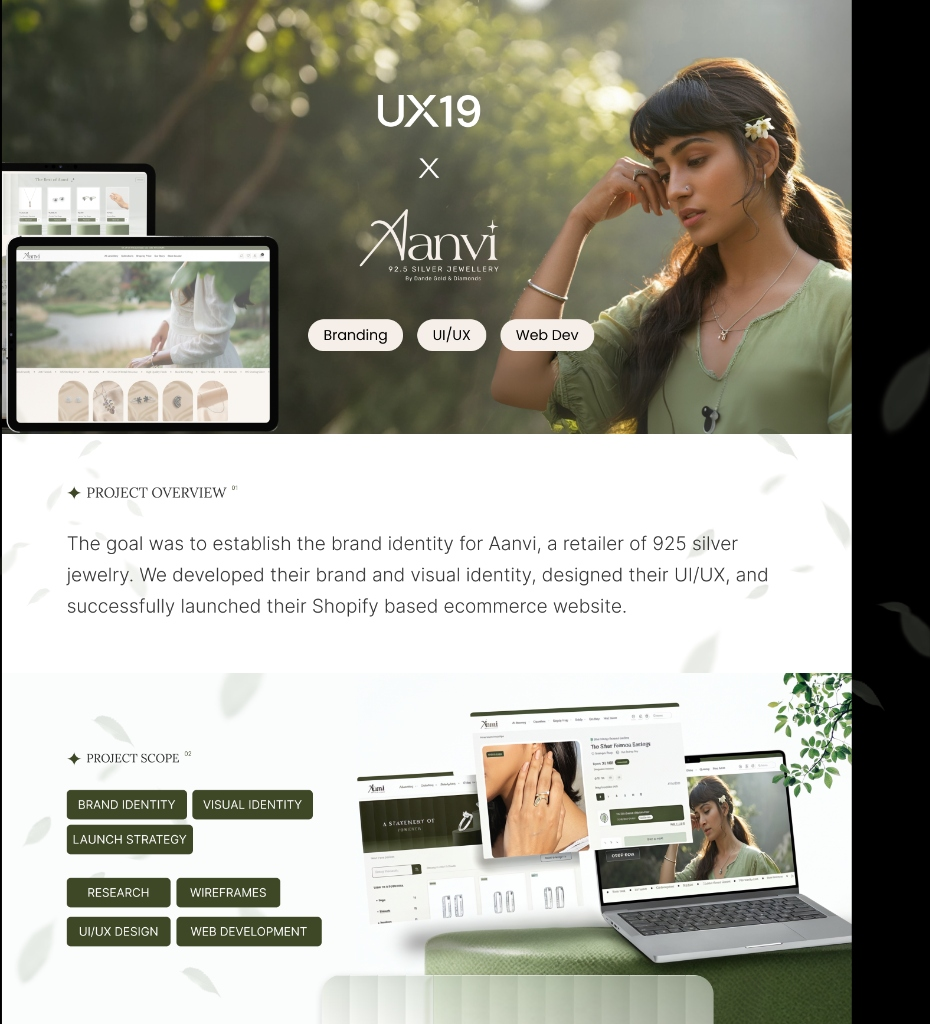
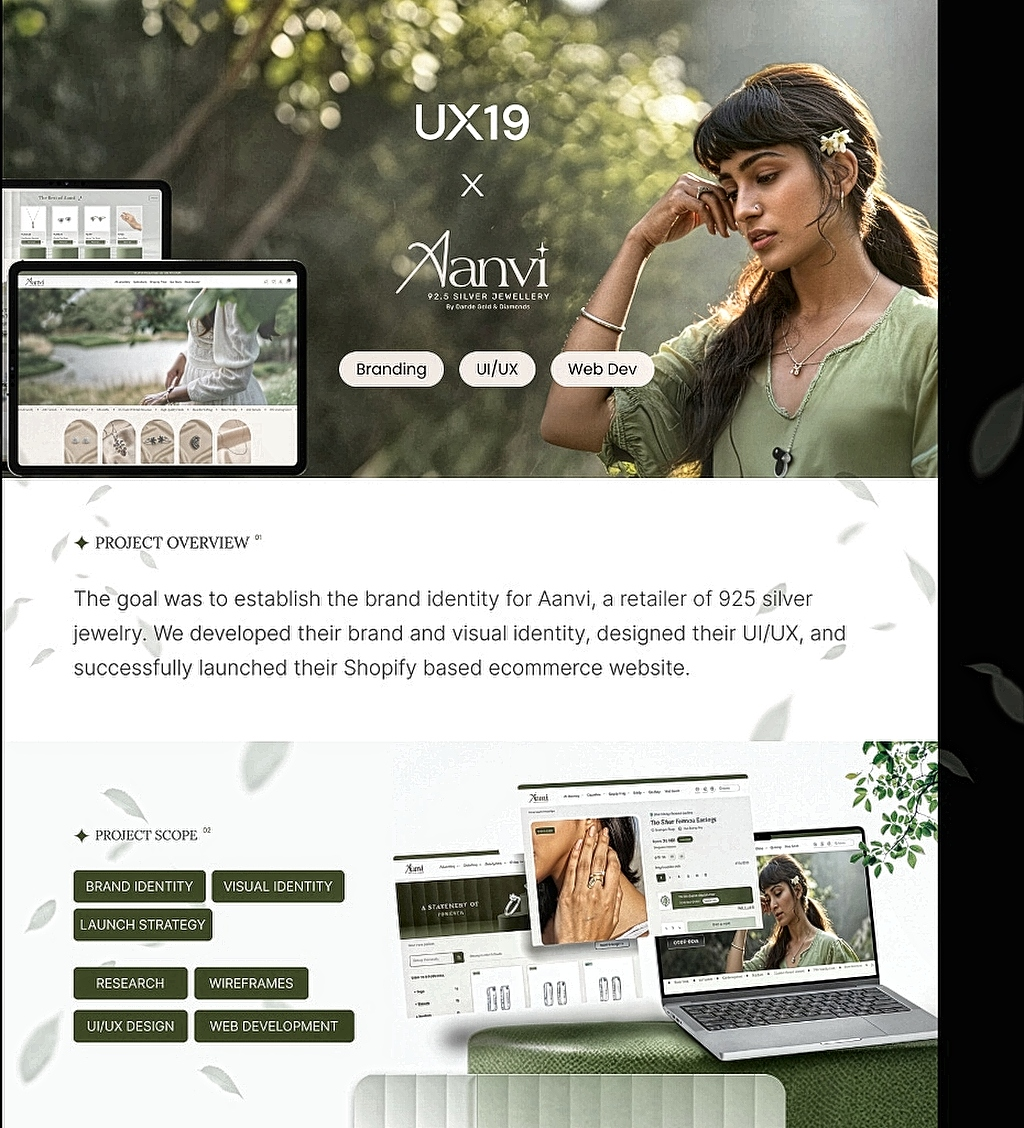
feat: standardize all 8 Aanvi boards to uniform 1024px full width with enhanced anti-blur edge clarity

diff --git a/aanvi.html b/aanvi.html
@@ -81,7 +81,7 @@
 
       <!-- Board 01 -->
       <article class="aanvi-stack-item" id="board-01">
-        <img src="assets/images/projects/aanvi/page-01-overview-and-scope.jpg" alt="Aanvi 925 Silver Jewellery — Board 01: Project Overview & Scope" width="930" height="1024" loading="eager" />
+        <img src="assets/images/projects/aanvi/page-01-overview-and-scope.jpg" alt="Aanvi 925 Silver Jewellery — Board 01: Project Overview & Scope" width="1024" height="1128" loading="eager" />
       </article>
 
       <!-- Board 02 -->
@@ -91,7 +91,7 @@
 
       <!-- Board 03 -->
       <article class="aanvi-stack-item" id="board-03">
-        <img src="assets/images/projects/aanvi/page-03-visual-identity-and-pillars.png" alt="Aanvi 925 Silver Jewellery — Board 03: Visual Identity & Pillars" width="448" height="1024" loading="lazy" />
+        <img src="assets/images/projects/aanvi/page-03-visual-identity-and-pillars.png" alt="Aanvi 925 Silver Jewellery — Board 03: Visual Identity & Pillars" width="1024" height="2341" loading="lazy" />
       </article>
 
       <!-- Board 04 -->
@@ -101,7 +101,7 @@
 
       <!-- Board 05 -->
       <article class="aanvi-stack-item" id="board-05">
-        <img src="assets/images/projects/aanvi/page-05-user-personas.png" alt="Aanvi 925 Silver Jewellery — Board 05: User Personas & Collateral" width="720" height="1024" loading="lazy" />
+        <img src="assets/images/projects/aanvi/page-05-user-personas.png" alt="Aanvi 925 Silver Jewellery — Board 05: User Personas & Collateral" width="1024" height="1456" loading="lazy" />
       </article>
 
       <!-- Board 06 -->
@@ -111,12 +111,12 @@
 
       <!-- Board 07 -->
       <article class="aanvi-stack-item" id="board-07">
-        <img src="assets/images/projects/aanvi/page-07-website-design.png" alt="Aanvi 925 Silver Jewellery — Board 07: Website Design & Storefront" width="347" height="1024" loading="lazy" />
+        <img src="assets/images/projects/aanvi/page-07-website-design.png" alt="Aanvi 925 Silver Jewellery — Board 07: Website Design & Storefront" width="1024" height="3022" loading="lazy" />
       </article>
 
       <!-- Board 08 -->
       <article class="aanvi-stack-item" id="board-08">
-        <img src="assets/images/projects/aanvi/page-08-pdp-social-brand.png" alt="Aanvi 925 Silver Jewellery — Board 08: Product Architecture & Social Grid" width="450" height="1024" loading="lazy" />
+        <img src="assets/images/projects/aanvi/page-08-pdp-social-brand.png" alt="Aanvi 925 Silver Jewellery — Board 08: Product Architecture & Social Grid" width="1024" height="2330" loading="lazy" />
       </article>
 
     </section>

diff --git a/assets/css/aanvi.css b/assets/css/aanvi.css
@@ -304,9 +304,7 @@ body.aanvi-body {
 
 .aanvi-stack-item {
   width: 100%;
-  display: flex;
-  justify-content: center;
-  align-items: center;
+  display: block;
   margin: 0;
   padding: 0;
   line-height: 0;
@@ -316,9 +314,9 @@ body.aanvi-body {
 
 .aanvi-stack-item img {
   display: block;
-  max-width: 100%;
+  width: 100%;
   height: auto;
-  margin: 0 auto;
+  margin: 0;
   /* Ultra-sharp anti-blur raster filtering */
   image-rendering: -webkit-optimize-contrast;
   image-rendering: high-quality;
